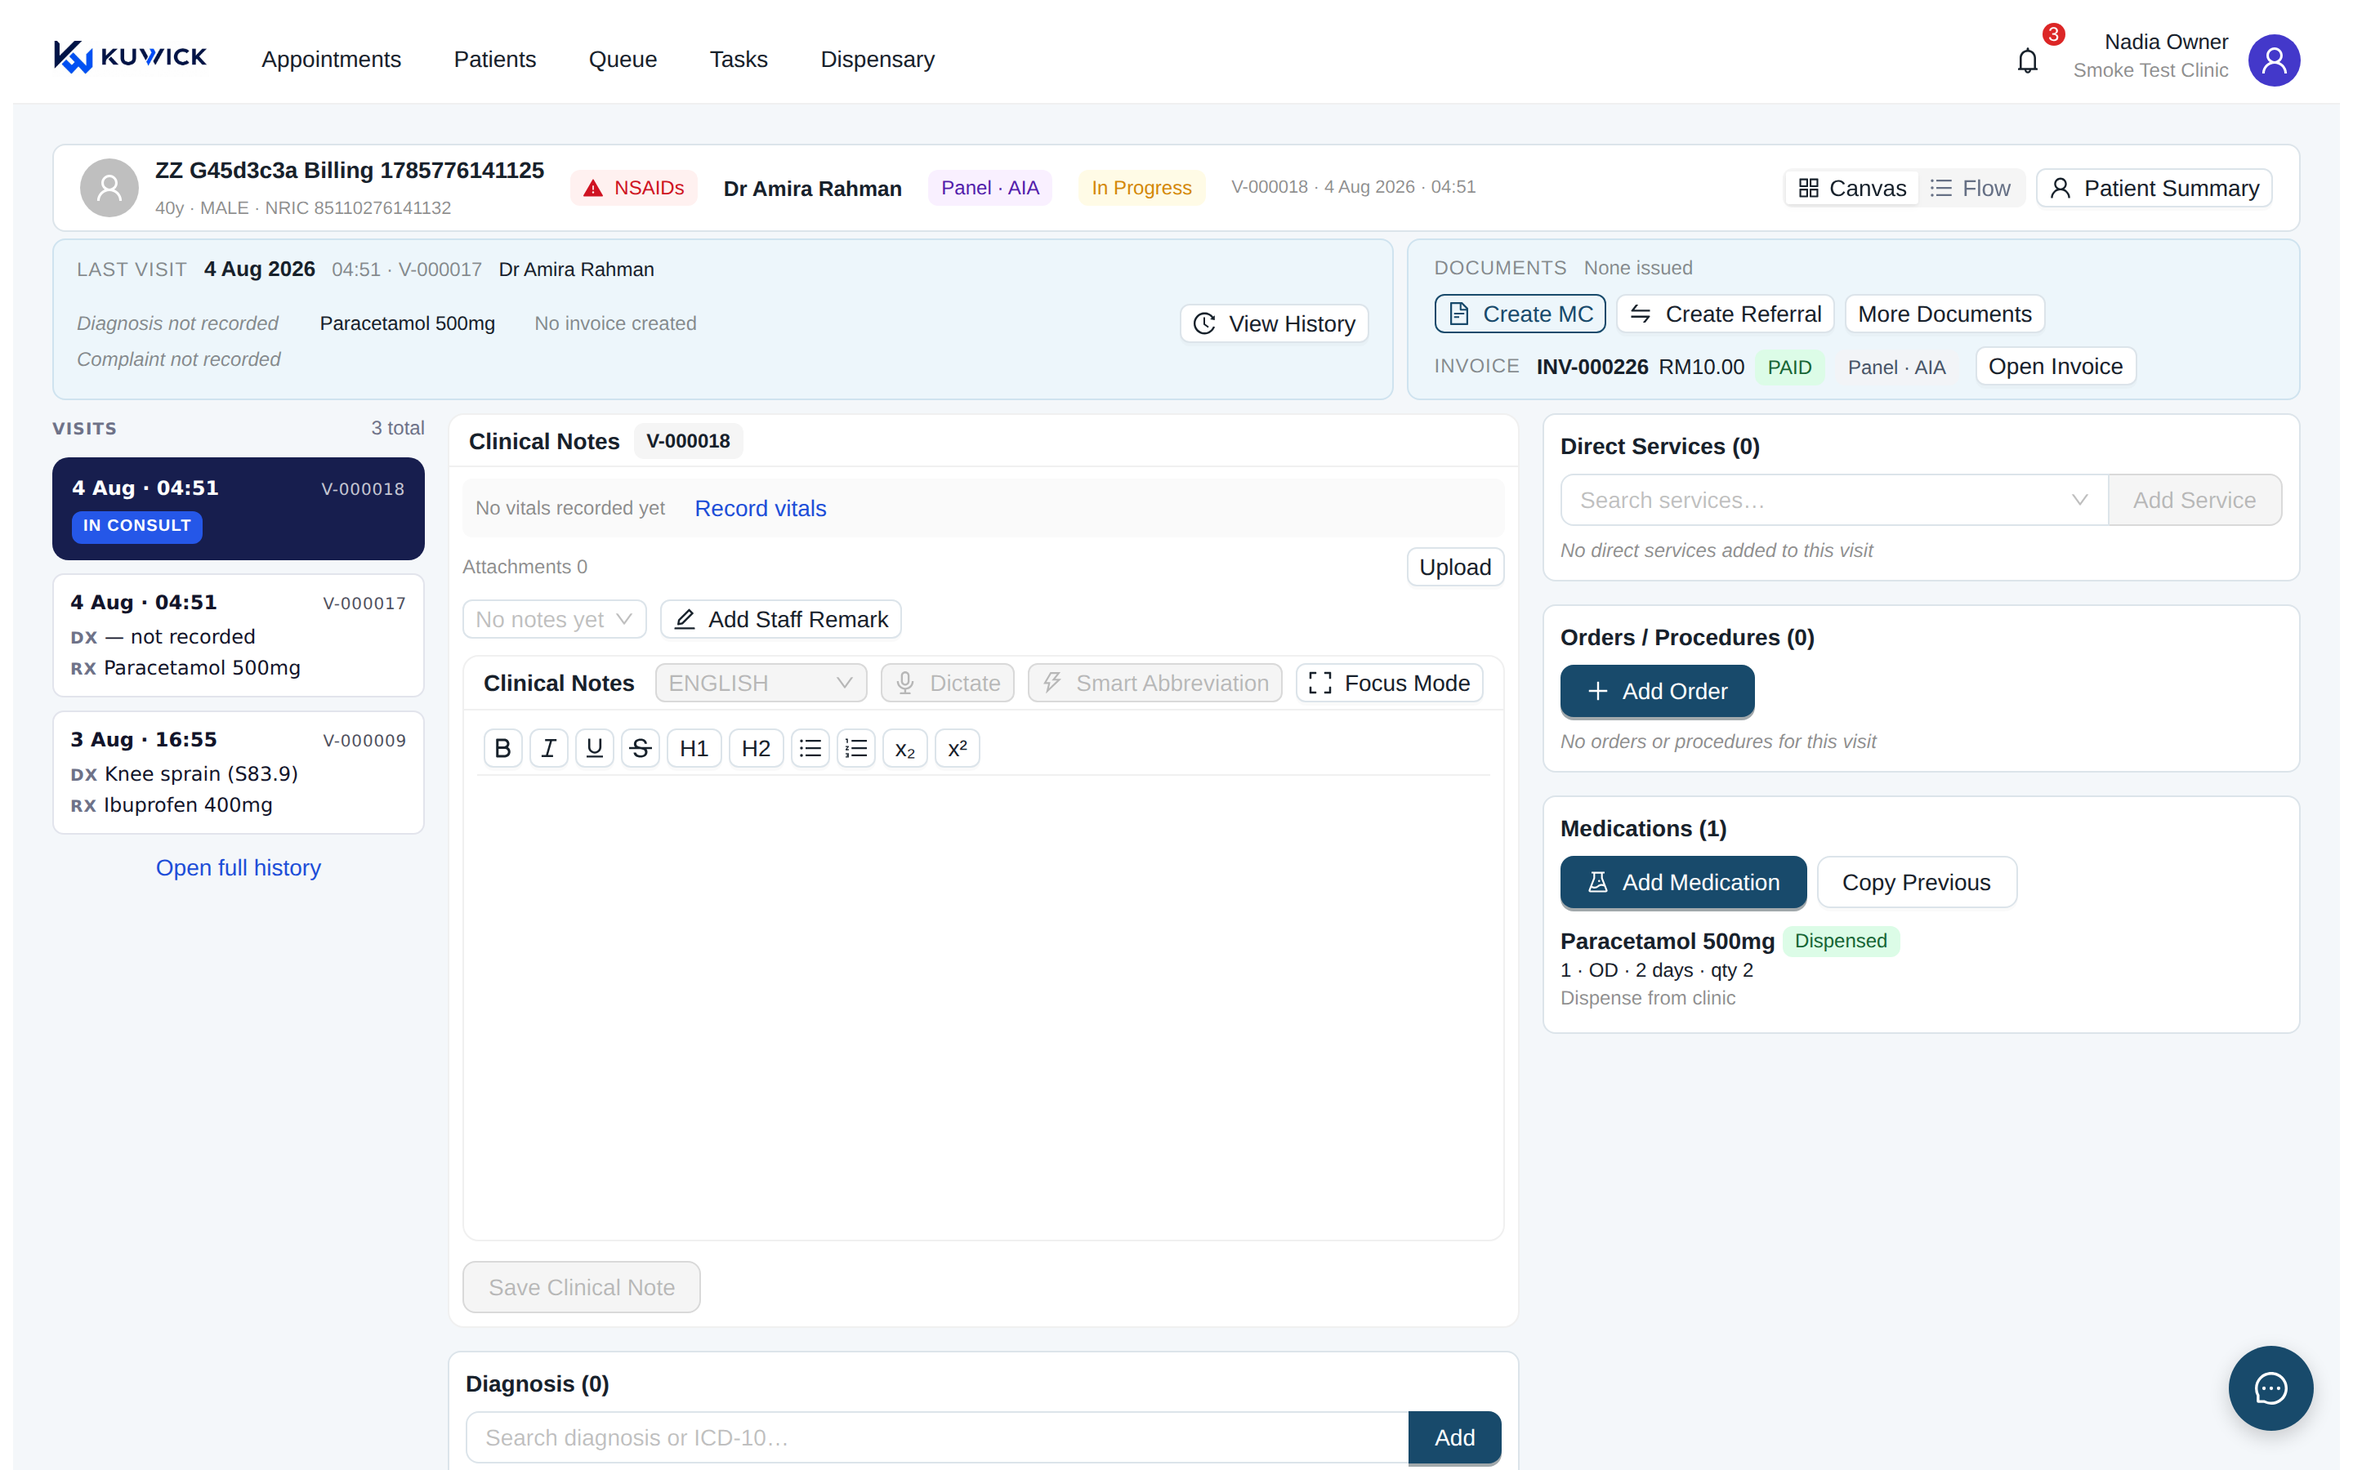
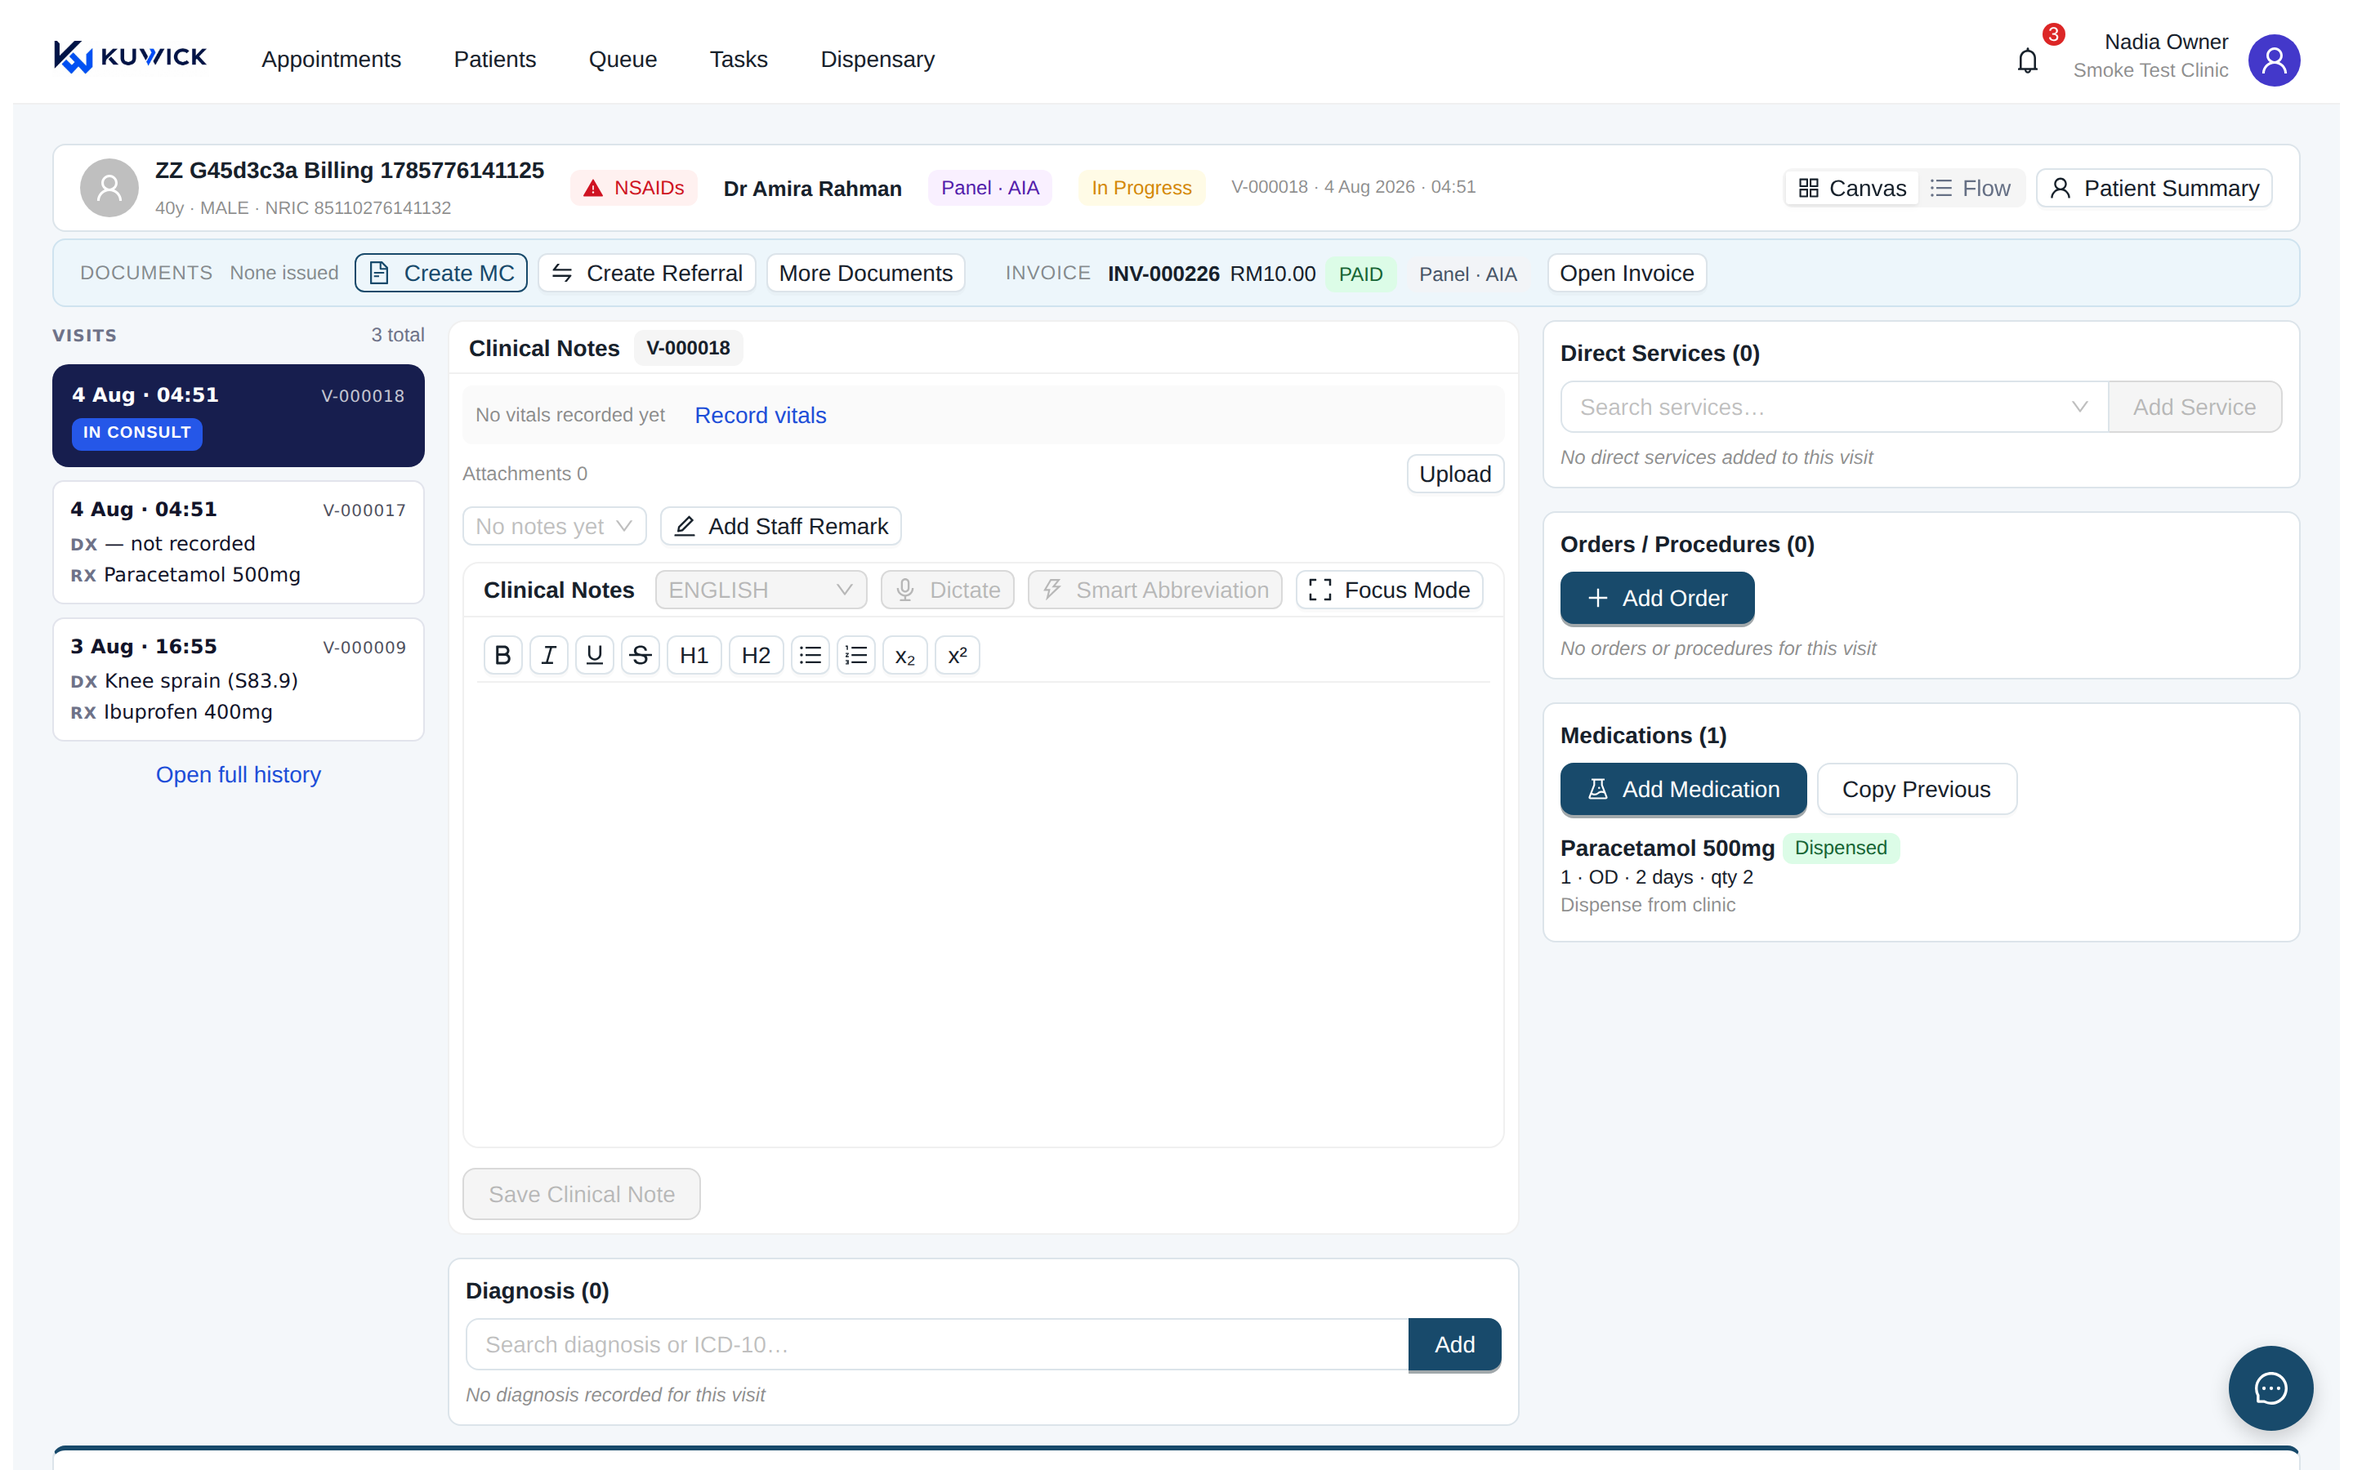
KW2-C1a/b: retire the LAST VISIT band, keep history reachable when it folds
A — LEGACY BANDS. One of the two is retired, not both, and the reason
matters.

The instruction was to hide both bands in Canvas and leave them rendering
in Flow. They do not render in Flow: both are inside the
`layout === 'canvas'` branch, and Flow draws a different patient card
entirely. So "hide in Canvas" means "remove from the product", which is
the right call for one of them and the wrong call for the other.

LAST VISIT is retired. The visits rail now answers "what happened last
time?" permanently and in the same glance, so the band was the same fact
printed twice — exactly the duplication the one-function-one-home rule
exists to stop.

DOCUMENTS/INVOICE stays, for now. It is not yet a duplicate: it carries
the only Create MC, Create Referral and Open Invoice controls that exist
in Canvas, and the cards meant to replace them are Phase 7 and Phase 8.
Hiding it today would not remove a duplication, it would remove a
doctor's only way to issue an MC in production. It goes the day the
Documents card lands.

Neither is deleted yet, as agreed — Phase 2 removes `LastVisitSnapshot`
and its tests together.

B — HISTORY COMPRESSES, IT NEVER DISAPPEARS. Below 1280 the visits column
folds so the note keeps a readable width, which left history unreachable
without leaving the consultation. The column now becomes a slim edge tab
that opens the same content as an overlay, dismissible with Esc, the mask
or the close control.
[…]

diff --git a/apps/web/src/clinical/canvas/canvasWorkspace.test.tsx b/apps/web/src/clinical/canvas/canvasWorkspace.test.tsx
@@ -2,6 +2,7 @@
 import { ReactNode } from 'react';
 import { QueryClient, QueryClientProvider } from '@tanstack/react-query';
 import { render, screen, waitFor, within } from '@testing-library/react';
+import userEvent from '@testing-library/user-event';
 import { beforeEach, describe, expect, it, vi } from 'vitest';
 import dayjs from 'dayjs';
 import { CanvasWorkspace } from './CanvasWorkspace';
@@ -253,5 +254,87 @@ describe('the Flow|Canvas preference belongs to a PERSON', () => {
     const state = useRecordViewLayoutStore.getState();
     expect(state.byStaffId).toEqual({});
     expect(selectLayout(state, undefined)).toBe('canvas');
+  });
+});
+
+describe('history compresses, it never disappears', () => {
+  /**
+   * jsdom reports every element as 0px wide, so the shell would always
+   * measure as "stacked". Pinning clientWidth is what lets these tests stand
+   * at a real breakpoint.
+   */
+  const atWidth = (width: number) =>
+    vi.spyOn(HTMLElement.prototype, 'clientWidth', 'get').mockReturnValue(width);
+
+  const renderAt = (width: number) => {
+    const spy = atWidth(width);
+    const result = render(
+      <CanvasWorkspace
+        visits={<div>the visits rail</div>}
+        middle={<div>M</div>}
+        right={<div>R</div>}
+      />,
+    );
+    return { ...result, spy };
+  };
+
+  it('19. at 1180 the rail folds and an edge tab takes its place', async () => {
+    const { spy } = renderAt(1180);
+    await waitFor(() =>
+      expect(screen.getByTestId('canvas-shell')).toHaveAttribute('data-mode', 'two-column'),
+    );
+    expect(screen.getByTestId('canvas-history-tab')).toBeInTheDocument();
+    spy.mockRestore();
+  });
+
+  it('20. the tab opens the SAME history content as an overlay', async () => {
+    const { spy } = renderAt(1180);
+    await screen.findByTestId('canvas-history-tab');
+    await userEvent.click(screen.getByTestId('canvas-history-tab'));
+    await waitFor(() => expect(screen.getByRole('dialog')).toBeInTheDocument());
+    expect(within(screen.getByRole('dialog')).getByText('the visits rail')).toBeInTheDocument();
+    spy.mockRestore();
+  });
+
+  it('21. Escape closes it — a doctor mid-consult should not have to aim', async () => {
+    const { spy } = renderAt(1180);
+    await screen.findByTestId('canvas-history-tab');
+    await userEvent.click(screen.getByTestId('canvas-history-tab'));
+    await screen.findByRole('dialog');
+    await userEvent.keyboard('{Escape}');
+    await waitFor(() => expect(screen.queryByRole('dialog')).not.toBeInTheDocument());
+    spy.mockRestore();
+  });
+
+  it('22. the close control dismisses it too', async () => {
+    const { spy } = renderAt(1180);
+    await screen.findByTestId('canvas-history-tab');
+    await userEvent.click(screen.getByTestId('canvas-history-tab'));
+    await screen.findByRole('dialog');
+    await userEvent.click(screen.getByRole('button', { name: /close/i }));
+    await waitFor(() => expect(screen.queryByRole('dialog')).not.toBeInTheDocument());
+    spy.mockRestore();
+  });
+
+  it('23. at 1440 the rail is on screen, so there is no tab to duplicate it', async () => {
+    const { spy } = renderAt(1440);
+    await waitFor(() =>
+      expect(screen.getByTestId('canvas-shell')).toHaveAttribute('data-mode', 'three-column'),
+    );
+    expect(screen.queryByTestId('canvas-history-tab')).not.toBeInTheDocument();
+    expect(screen.getByText('the visits rail')).toBeInTheDocument();
+    spy.mockRestore();
+  });
+
+  it('24. stacked keeps the rail on the page, so no tab there either', async () => {
+    // Ordered below the work rather than removed — a second way in would be a
+    // duplicate control, not a rescue.
+    const { spy } = renderAt(390);
+    await waitFor(() =>
+      expect(screen.getByTestId('canvas-shell')).toHaveAttribute('data-mode', 'stacked'),
+    );
+    expect(screen.queryByTestId('canvas-history-tab')).not.toBeInTheDocument();
+    expect(screen.getByText('the visits rail')).toBeInTheDocument();
+    spy.mockRestore();
   });
 });

diff --git a/apps/web/src/clinical/canvas/CanvasWorkspace.tsx b/apps/web/src/clinical/canvas/CanvasWorkspace.tsx
@@ -1,4 +1,6 @@
 import { ReactNode, useEffect, useRef, useState } from 'react';
+import { Drawer } from 'antd';
+import { HistoryOutlined } from '@ant-design/icons';
 import { canvasWidths, CanvasWidths } from './canvasLayout';
 import './canvas.css';
 
@@ -30,6 +32,7 @@ export interface CanvasWorkspaceProps {
 export function CanvasWorkspace({ visits, middle, right, footer }: CanvasWorkspaceProps) {
   const shell = useRef<HTMLDivElement>(null);
   const [widths, setWidths] = useState<CanvasWidths | null>(null);
+  const [historyOpen, setHistoryOpen] = useState(false);
 
   useEffect(() => {
     const node = shell.current;
@@ -57,8 +60,51 @@ export function CanvasWorkspace({ visits, middle, right, footer }: CanvasWorkspa
   const sized = (width: number | undefined) =>
     width && mode !== 'stacked' ? { width, flexBasis: width } : undefined;
 
+  /**
+   * HISTORY COMPRESSES, IT NEVER DISAPPEARS.
+   *
+   * Below 1280 the visits column folds so the note keeps a readable width —
+   * but a doctor reaches for history mid-consultation, and a rail that is
+   * simply gone at 1180 is a rail they have to leave the consultation to
+   * reach. So the column becomes an edge tab that opens the same content as
+   * an overlay, dismissible with Esc or a click outside.
+   *
+   * Only in two-column mode. When stacked, the rail is still on the page —
+   * ordered below the work rather than removed — so a second way in would be
+   * a duplicate control, not a rescue.
+   */
+  const railFolded = mode === 'two-column';
+
   return (
     <div className="kw-canvas2">
+      {railFolded && (
+        <button
+          type="button"
+          className="kw2-history-tab"
+          onClick={() => setHistoryOpen(true)}
+          data-testid="canvas-history-tab"
+        >
+          <HistoryOutlined />
+          <span>Visit history</span>
+        </button>
+      )}
+
+      <Drawer
+        open={railFolded && historyOpen}
+        onClose={() => setHistoryOpen(false)}
+        placement="left"
+        width={320}
+        title="Visit history"
+        // antd closes on Esc and on a mask click by default; both are stated
+        // here so a later prop change cannot remove them silently.
+        keyboard
+        maskClosable
+        rootClassName="kw-canvas2"
+        data-testid="canvas-history-drawer"
+      >
+        {visits}
+      </Drawer>
+
       <div className="kw-canvas2-shell" data-mode={mode} ref={shell} data-testid="canvas-shell">
         <aside
           className="kw-canvas2-col kw-canvas2-visits"

diff --git a/apps/web/src/clinical/PatientDashboardPage.tsx b/apps/web/src/clinical/PatientDashboardPage.tsx
@@ -52,7 +52,6 @@ import { OrdersRail } from './sections/OrdersRail';
 import { ServicesRail } from './sections/ServicesRail';
 import { VisitCompletionBar } from './VisitCompletionBar';
 import { ConsultationFooter } from './ConsultationFooter';
-import { LastVisitSnapshot } from './LastVisitSnapshot';
 import { PatientSummarySidebar } from './PatientSummarySidebar';
 import { VisitHistoryPanel } from './history/VisitHistoryPanel';
 // G1 (D-058) — the four *SummaryCard components are deliberately still in the
@@ -270,15 +269,22 @@ export function PatientDashboardPage() {
             onPatientSummary={() => setSummaryOpen(true)}
             layoutControl={layoutSwitch}
           />
-          {/* G4.5d2 (D-076) — "what happened last time?", answered without
-              opening anything. Read-only, and it never touches the current
-              visit, the URL or the C1 draft. */}
+          {/* KW2-C1a — the LAST VISIT band is RETIRED in Canvas.
+              D-076 put it here to answer "what happened last time?" without
+              opening anything. The Kuwick 2.0 visits rail now answers that
+              question permanently and in the same glance, so the band had
+              become the same fact printed twice. Not deleted yet: Phase 2
+              removes `LastVisitSnapshot` and its tests together, once the
+              rail owns hover-preview and Copy Rx.
+
+              THE DOCUMENTS/INVOICE BAND BELOW IS NOT RETIRED WITH IT, and
+              that is deliberate. It is not yet a duplicate: it carries the
+              only Create MC, Create Referral and Open Invoice controls that
+              exist in Canvas, and the cards meant to replace them are Phase 7
+              and Phase 8. Hiding it now would not remove a duplication, it
+              would remove a doctor's only way to issue an MC in production.
+              It goes the day the Documents card lands. */}
           <div className="kw-visit-band">
-          <LastVisitSnapshot
-            patientId={patient.id}
-            currentVisitId={selectedVisit.id}
-            onViewHistory={() => setHistoryOpen(true)}
-          />
           {/* G4.5d (D-075) — how the consultation ENDS, immediately below the
               context band instead of at the bottom of the page. A summary and
               entry points only; the full workspaces stay below the Canvas. */}

diff --git a/apps/web/src/clinical/canvas/canvas.css b/apps/web/src/clinical/canvas/canvas.css
@@ -258,3 +258,47 @@
   white-space: normal;
   opacity: 0.9;
 }
+
+/* ---------------------------------------------------------------------------
+   The folded-history edge tab.
+
+   Below 1280 the visits column folds so the note keeps a readable width. A
+   doctor still reaches for history mid-consultation, so the column becomes
+   this: a slim tab pinned to the left edge that opens the same content as an
+   overlay. History compresses; it never disappears.
+   ------------------------------------------------------------------------ */
+.kw2-history-tab {
+  position: fixed;
+  left: 0;
+  top: 45%;
+  z-index: 20;
+  display: flex;
+  align-items: center;
+  gap: 6px;
+  padding: 10px 8px;
+  border: 1px solid var(--kw2-border);
+  border-left: none;
+  border-radius: 0 var(--kw2-radius-row) var(--kw2-radius-row) 0;
+  background: var(--kw2-surface);
+  color: var(--kw2-navy);
+  box-shadow: var(--kw2-shadow);
+  cursor: pointer;
+  font-family: var(--kw2-font);
+  font-size: var(--kw2-micro);
+  font-weight: 600;
+  letter-spacing: 0.06em;
+  text-transform: uppercase;
+  /* Reads down the edge, so the tab costs ~32px of width rather than ~120. */
+  writing-mode: vertical-rl;
+}
+
+.kw2-history-tab:hover,
+.kw2-history-tab:focus-visible {
+  background: var(--kw2-soft);
+  outline: 2px solid var(--kw2-blue);
+  outline-offset: -2px;
+}
+
+.kw2-history-tab .anticon {
+  writing-mode: horizontal-tb;
+}

diff --git a/apps/api/prisma/g45c2-canvas-phase1-shots.ts b/apps/api/prisma/g45c2-canvas-phase1-shots.ts
@@ -31,6 +31,8 @@ const VIEWS = [
   { name: '03-two-column-1180', width: 1180, height: 900, layout: 'canvas' },
   { name: '04-stacked-iphone-390', width: 390, height: 844, layout: 'canvas' },
   { name: '05-flow-untouched-1440', width: 1440, height: 900, layout: 'flow' },
+  // KW2-C1a/b — the retired LAST VISIT band, and the folded-history tab.
+  { name: '06-history-tab-1180', width: 1180, height: 900, layout: 'canvas', openHistory: true },
 ];
 
 async function main() {
@@ -83,6 +85,12 @@ async function main() {
     const visitRow = page.locator('.ant-list-item, .ant-table-row, [data-visit-id]').first();
     if (await visitRow.count()) await visitRow.click().catch(() => {});
     await page.waitForTimeout(2500);
+
+    if ((view as { openHistory?: boolean }).openHistory) {
+      const tab = page.locator('[data-testid="canvas-history-tab"]');
+      if (await tab.count()) await tab.click().catch(() => {});
+      await page.waitForTimeout(900);
+    }
 
     await page.screenshot({ path: join(OUT, `${view.name}.png`), fullPage: view.width < 500 });
 
